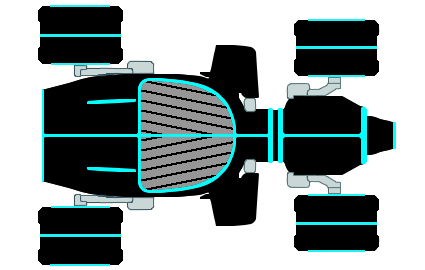
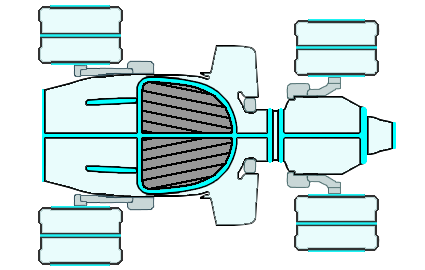
Added new light runner

diff --git a/Source/MainScene.m b/Source/MainScene.m
@@ -88,7 +88,7 @@ static MainScene *inst = nil;
     
     CCSpriteFrame *lightRunner = [CCSpriteFrame frameWithImageNamed:@"Delivery/Light Runner.png"];
     
-    [_hero setSpriteFrame:policeCar];
+    [_hero setSpriteFrame:lightRunner];
     self.heroFrame = _hero.spriteFrame;
     
     if (_hero.spriteFrame == jeep || policeCar || pickupTruck || lightRunner) {
